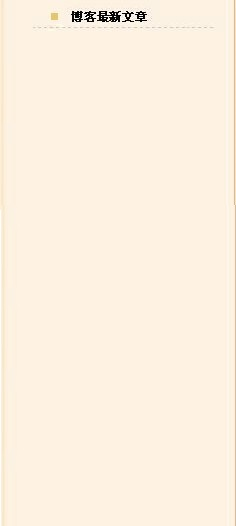
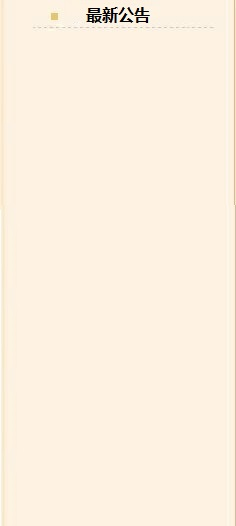
改首页

Changed region(s): [[0.2966, 0.0, 0.6525, 0.0608]]

diff --git a/index.php b/index.php
@@ -70,24 +70,31 @@ include "Conn/conn.php";
 	   <td height="125" align="center" valign="top"><br></td>
           </tr>
 	</table>
+
     </td>
     <td width="521" height="501" align="center" background="images/right.jpg">
-      <table width="100%" height="98%"  border="0" cellpadding="0" cellspacing="0">
+     <table width="100%" height="98%"  border="0" cellpadding="0" cellspacing="0">       
        <tr>
-        <td>&nbsp;</td>
-       </tr>
-       <tr>
-        <td height="372" align="center"><table style="WIDTH: 252px" cellspacing=0 cellpadding=0>
-          <tbody>
-            <tr>
-              <td style="WIDTH: 429px; HEIGHT: 280px" colspan=3 rowspan=2>
-            </tr>
-          </tbody>
+        <td height="480" align="center">
+         <table style="WIDTH: 480px">
+	 <?php
+	    $sql=mysql_query("select id,title,now from article order by now desc limit 5");
+	    $i=1;
+	    while($info=mysql_fetch_array($sql)){
+	 ?>
+	   <tr>
+	     <td style="WIDTH: 460px; HEIGHT: 20px">&nbsp;&nbsp;&nbsp;
+	     <a href="article.php?file_id=<?php echo $info[id];?>" target="_blank"><?php echo $i."、".substr($info[title],0,20).'   '.$info[now];?></a></td>
+	   </tr>
+	<?php 
+	    $i=$i+1;
+	    }
+	?>
+	  <tr>
+	    <td height="20" align="right"><a href="file_more.php"><img src=" images/more.gif" width="27" height="9" border="0">&nbsp;&nbsp;&nbsp;</a></td>
+	  </tr>
         </table>
        </td>
-      </tr>
-      <tr>
-        <td height="66">&nbsp;</td>
       </tr>
     </table>
    </td>
